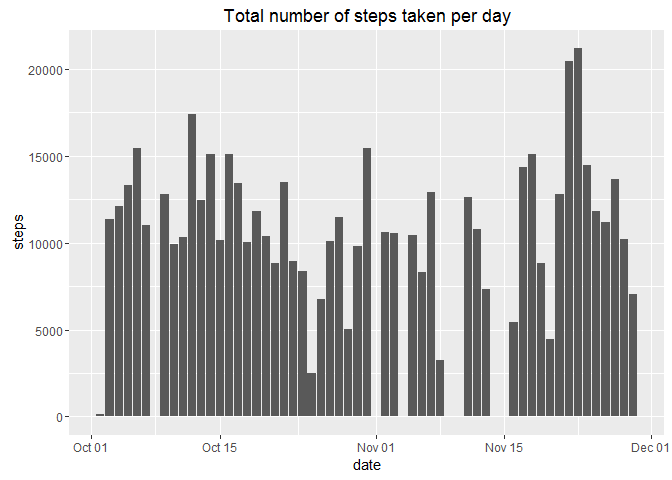
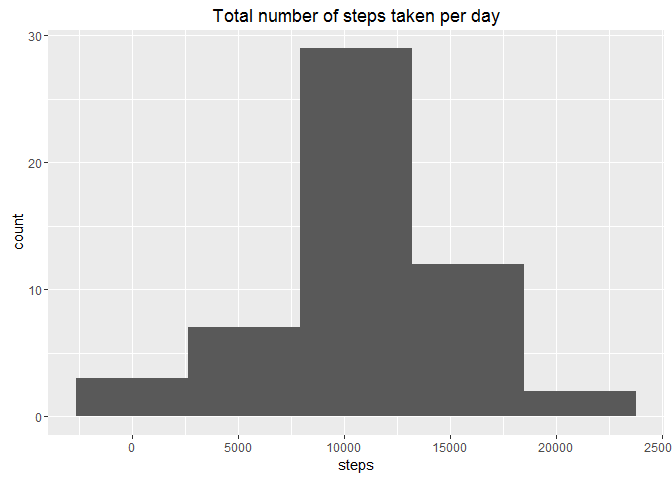
Use Histogram

diff --git a/PA1_template.html b/PA1_template.html
@@ -134,10 +134,10 @@ meanStep = mean(totalStep$steps)
 medianStep = median(totalStep$steps)
 
 library(ggplot2)
-ggplot(totalStep, aes(date,steps))+
+ggplot(totalStep, aes(steps))+
   labs(title = &quot;Total number of steps taken per day&quot;) +
-  geom_bar(stat = &quot;identity&quot;)</code></pre>
[1 lines of base64/hex data omitted]
+  geom_histogram(bins = 5)</code></pre>
[1 lines of base64/hex data omitted]
 <ol start="2" style="list-style-type: decimal">
 <li>Calculate and report the mean and median total number of steps taken per day</li>
 </ol>
@@ -196,17 +196,21 @@ print( paste(&quot;is.na checking: &quot;, sum(is.na(fillActivity$steps))) )</co
 <ol start="4" style="list-style-type: decimal">
 <li>Make a histogram of the total number of steps taken each day and Calculate and report the mean and median total number of steps taken per day. Do these values differ from the estimates from the first part of the assignment? What is the impact of imputing missing data on the estimates of the total daily number of steps?</li>
 </ol>
-<pre class="r"><code>totalStep = aggregate(steps ~ date, fillActivity, sum)
-meanStep = mean(totalStep$steps)
-medianStep = median(totalStep$steps)
+<pre class="r"><code>fillTotalStep = aggregate(steps ~ date, fillActivity, sum)
+fillMeanStep = mean(fillTotalStep$steps)
+fillMedianStep = median(fillTotalStep$steps)
 
 library(ggplot2)
-ggplot(totalStep, aes(date,steps))+
-  labs(title = &quot;Total number of steps taken per day&quot;) +
-  geom_bar(stat = &quot;identity&quot;)</code></pre>
[1 lines of base64/hex data omitted]
+ggplot(fillTotalStep, aes(steps))+
+  labs(title = &quot;Total number of steps taken per day (imputed)&quot;) +
+  geom_histogram(bins = 5)</code></pre>
[1 lines of base64/hex data omitted]
 <blockquote>
-<p>Imputing missing data causing more data fall on the mean value.</p>
+<p><strong>mean</strong> total number of steps taken per day: <strong>10766.1886792453</strong><br />
+<strong>median</strong> total number of steps taken per day: <strong>10766.1886792453</strong></p>
+</blockquote>
+<blockquote>
+<p>With filling strategy: mean for that 5-minute interval, new mean and median is equal to original mean value.</p>
 </blockquote>
 </div>
 <div id="are-there-differences-in-activity-patterns-between-weekdays-and-weekends" class="section level2">

diff --git a/PA1_template.md b/PA1_template.md
@@ -18,9 +18,9 @@ meanStep = mean(totalStep$steps)
 medianStep = median(totalStep$steps)
 
 library(ggplot2)
-ggplot(totalStep, aes(date,steps))+
+ggplot(totalStep, aes(steps))+
   labs(title = "Total number of steps taken per day") +
-  geom_bar(stat = "identity")
+  geom_histogram(bins = 5)
 ```
 
 ![](PA1_template_files/figure-html/unnamed-chunk-2-1.png)<!-- -->
@@ -102,19 +102,22 @@ What is the impact of imputing missing data on the estimates of the total
 daily number of steps?  
 
 ```r
-totalStep = aggregate(steps ~ date, fillActivity, sum)
-meanStep = mean(totalStep$steps)
-medianStep = median(totalStep$steps)
+fillTotalStep = aggregate(steps ~ date, fillActivity, sum)
+fillMeanStep = mean(fillTotalStep$steps)
+fillMedianStep = median(fillTotalStep$steps)
 
 library(ggplot2)
-ggplot(totalStep, aes(date,steps))+
-  labs(title = "Total number of steps taken per day") +
-  geom_bar(stat = "identity")
+ggplot(fillTotalStep, aes(steps))+
+  labs(title = "Total number of steps taken per day (imputed)") +
+  geom_histogram(bins = 5)
 ```
 
 ![](PA1_template_files/figure-html/unnamed-chunk-6-1.png)<!-- -->
   
-> Imputing missing data causing more data fall on the mean value.     
+> **mean**   total number of steps taken per day: **10766.1886792453**  
+> **median** total number of steps taken per day: **10766.1886792453**  
+
+> With filling strategy: mean for that 5-minute interval, new mean and median is equal to original mean value.     
   
   
 ## Are there differences in activity patterns between weekdays and weekends?
